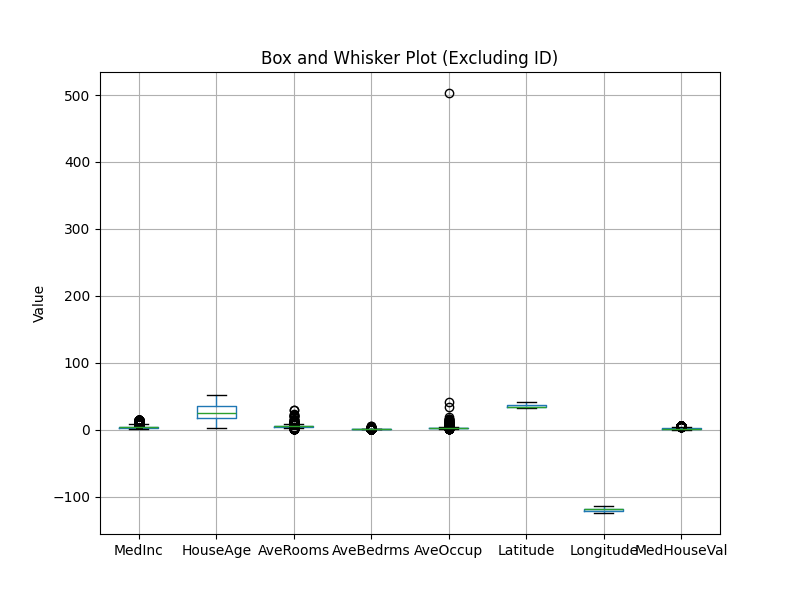
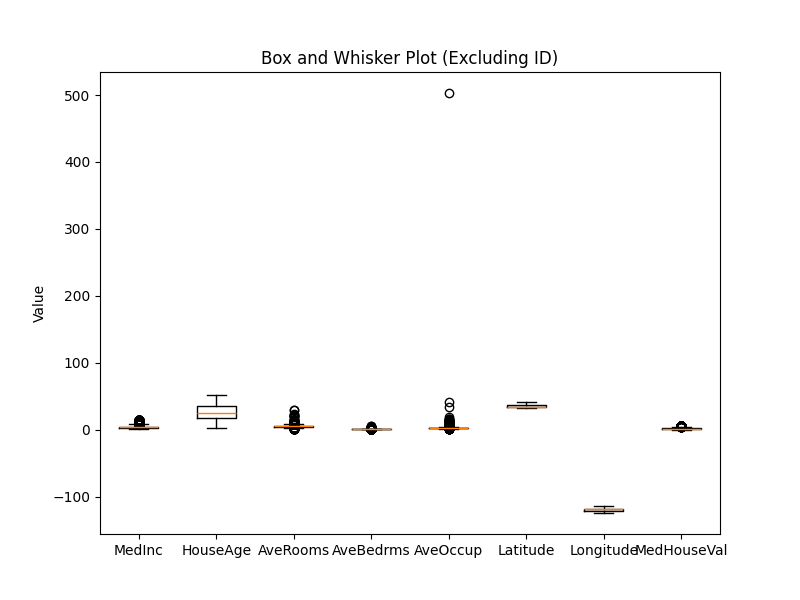
transleted to polars

diff --git a/main.py b/main.py
@@ -1,28 +1,30 @@
-import pandas as pd
+import polars as pl
 import matplotlib.pyplot as plt
 
+# Read the CSV 
+sample_df = pl.read_csv("train.csv")
 
-sample_df = pd.read_csv("train.csv")
+# Calculate summary 
 summary = sample_df.describe()
 
+# check first couple of rows
+print(sample_df.head())
 
-# Refactor this into Functions
+# Drop the 'id' and 'Population' columns
+df_without_id = sample_df.drop(["id", "Population"])
 
-sample_df.head()
+columns = df_without_id.columns
+data = [df_without_id[column].to_list() for column in columns]
 
-# Drop the 'ID' column before plotting
-df_without_id = sample_df.drop(columns=["id", "Population"])
-
-# Create a box plot for all columns in the dataframe excluding 'ID'
 plt.figure(figsize=(8, 6))
-df_without_id.boxplot()
+plt.boxplot(data, tick_labels=columns)
 plt.title("Box and Whisker Plot (Excluding ID)")
 plt.ylabel("Value")
 
+# Save the box plot
 plt.savefig("fig/sample2.png")
 
-
-# Create a figure and axis
+# Create a figure and axis for the summary table
 fig, ax = plt.subplots(figsize=(10, 4))  # Adjust the size as necessary
 
 # Hide the axes
@@ -30,17 +32,22 @@ ax.xaxis.set_visible(False)
 ax.yaxis.set_visible(False)
 ax.set_frame_on(False)
 
+summary_data = summary.to_numpy().tolist() 
+column_labels = summary.columns
+row_labels = summary.get_column(
+    "statistic"
+).to_list()  
+
 # Create the table
 table = ax.table(
-    cellText=summary.values,
-    colLabels=summary.columns,
-    rowLabels=summary.index,
+    cellText=summary_data,
+    colLabels=column_labels,
+    rowLabels=row_labels,
     cellLoc="center",
     loc="center",
 )
 
-# Adjust the table scale
 table.scale(1, 2)
 
-# Show the plot with the table
+# Save the plot with the table
 plt.savefig("fig/summary.png")

diff --git a/test_main.py b/test_main.py
@@ -1,17 +1,25 @@
 from main import sample_df, summary
 import unittest
+import polars as pl
 import os
 
 
 class Test_Main(unittest.TestCase):
-    def test(self):
+    def test_sample_df(self):
+        # Check if the sample_df is not None
         self.assertTrue(sample_df is not None)
-        self.assertEqual(summary["id"]["count"], 37137)
+        # Verify the count of the 'id' column in the summary
+        self.assertEqual(
+            summary.filter(pl.col("statistic") == "count").get_column("id").item(),
+            37137,
+        )
 
     def test_summary(self):
+        # Check if the summary is not None
         self.assertTrue(summary is not None)
 
     def test_check_files(self):
+        # Check if the required files are present in the "fig/" directory
         self.assertTrue("sample.png" in os.listdir("fig/"))
         self.assertTrue("sample2.png" in os.listdir("fig/"))
         self.assertTrue("summary.png" in os.listdir("fig/"))
